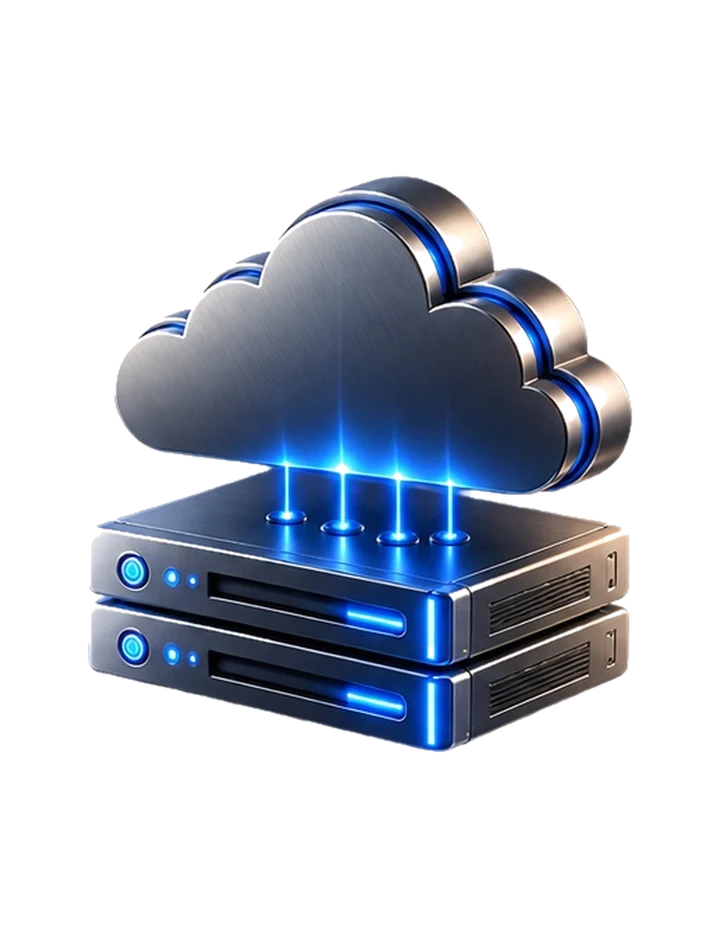
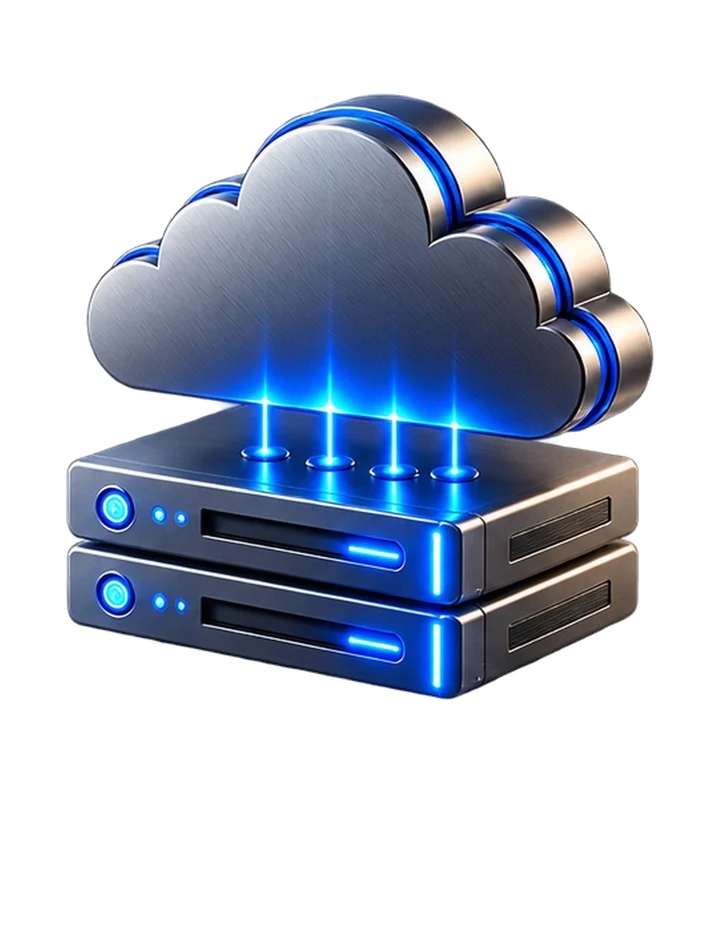
TEST: final straightened transparent category pictures
Claude-Session: https://claude.ai/code/session_01Ak37PopmRyxdyWRVkbaa1v

diff --git a/marketplace-usi-slider.html b/marketplace-usi-slider.html
@@ -30,8 +30,8 @@ let products=[
  ["email","Agent","Email Writer","Drafts clear, polite, ready-to-send emails for any situation."],
  ["quiz","Agent","Quiz Master","Runs a multiple-choice quiz on any topic and keeps your score."]
 ].map(([a,type,title,desc])=>({id:'house'+a,type,title,desc,price:0,creator:'Use Superintelligence',url:SITE+'/agents/'+a,house:true,featured:false,image:'marketplace/astral-v2/'+title.toLowerCase().replace(/[^a-z0-9]+/g,'-')+'.webp',gets:HOUSE_GETS}));
-products.push({id:'houseprompts-work',type:'Prompt pack',title:'AI at Work Prompt Pack',desc:'25 copy-ready prompts for email, meetings, planning, research and customers. Works with any AI chat.',price:0,creator:'Use Superintelligence',url:'https://xyxailab-max.github.io/superintelligence-3d-test/prompts/ai-at-work.html',house:true,featured:false,image:'marketplace/categories/prompts-templates.webp?v=5',gets:['Free, no sign-up','25 prompts in 5 groups','One-tap copy']});
-products.push({id:'housecourse-work',type:'Course',title:'AI at Work in 5 Lessons',desc:'A free beginner mini-course: 5 short lessons, each with a 5-minute practice task. About 30 minutes total.',price:0,creator:'Use Superintelligence',url:'https://xyxailab-max.github.io/superintelligence-3d-test/courses/ai-at-work.html',house:true,featured:false,image:'marketplace/categories/courses.webp?v=5',gets:['Free, no sign-up','5 lessons, about 30 minutes','Practice task in every lesson']});
+products.push({id:'houseprompts-work',type:'Prompt pack',title:'AI at Work Prompt Pack',desc:'25 copy-ready prompts for email, meetings, planning, research and customers. Works with any AI chat.',price:0,creator:'Use Superintelligence',url:'https://xyxailab-max.github.io/superintelligence-3d-test/prompts/ai-at-work.html',house:true,featured:false,image:'marketplace/categories/prompts-templates.webp?v=6',gets:['Free, no sign-up','25 prompts in 5 groups','One-tap copy']});
+products.push({id:'housecourse-work',type:'Course',title:'AI at Work in 5 Lessons',desc:'A free beginner mini-course: 5 short lessons, each with a 5-minute practice task. About 30 minutes total.',price:0,creator:'Use Superintelligence',url:'https://xyxailab-max.github.io/superintelligence-3d-test/courses/ai-at-work.html',house:true,featured:false,image:'marketplace/categories/courses.webp?v=6',gets:['Free, no sign-up','5 lessons, about 30 minutes','Practice task in every lesson']});
 const TYPES=["All","Featured","Free","Agent","Course","Prompt pack","Template","Automation","Tool"];
 const grid=document.getElementById('grid'),dock=document.getElementById('dock'),filter=document.getElementById('filter'),search=document.getElementById('search'),detail=document.getElementById('detail');
 function esc(s){return String(s).replace(/[&<>"']/g,c=>({'&':'&amp;','<':'&lt;','>':'&gt;','"':'&quot;',"'":'&#39;'}[c]))}
@@ -258,7 +258,7 @@ const C=[['AI Agents','AI Agents','ai-agents',['Agent']],['AI Tools & Automation
  ['Courses','Courses','courses',['Course']],['Software','Software','software',[]]];
 function build(){const cur=filter.value||'All',opts=[...filter.options].map(o=>o.value);
  dots.innerHTML=C.map(([full,short,file,types])=>{const t=types.find(x=>opts.includes(x)&&products.some(p=>p.type===x)),on=types.includes(cur),
-  img=`<img class="usi-im" src="marketplace/categories/${file}.webp?v=5" width="720" height="960" alt="" draggable="false">`;
+  img=`<img class="usi-im" src="marketplace/categories/${file}.webp?v=6" width="720" height="960" alt="" draggable="false">`;
   return t?`<button class="ic${on?' on':''}" type="button" data-cat="${esc(on?cur:t)}" aria-label="${esc('Show '+full)}" aria-pressed="${on}">${img}<span>${esc(short)}</span></button>`
    :`<span class="usi-off" role="img" aria-label="${esc(full)}, coming soon">${img}<span>${esc(short)}</span></span>`}).join('');
  dispatchEvent(new Event('resize'))}
